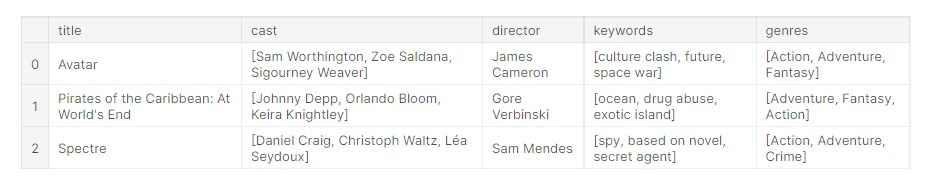
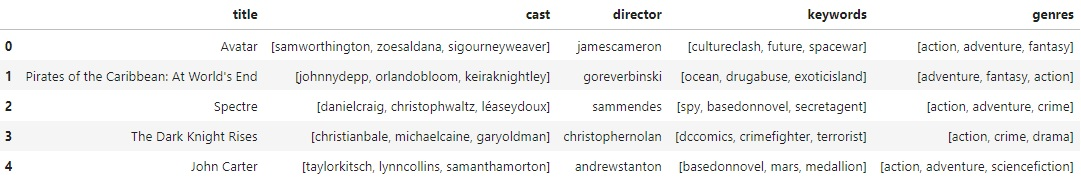
readme and image update

diff --git a/Cluster analysis (unclassified data)/README.md b/Cluster analysis (unclassified data)/README.md
@@ -236,117 +236,13 @@ get_recommendations('The Godfather')
 
 ![get_recommendations('The Godfather')](/images/movie/movie9.jpg)
 
-Our system did a good job of locating movies with comparable plot descriptions, but the quality of the recommendations isn't excellent. "The Dark Knight Rises" returns all Batman films, but fans of that film are more likely to love subsequent Christopher Nolan films. This is something that the current system is incapable of capturing.
+Our system was able to locate similar movies with plot descriptions, but the quality of the recommendations wasn't great. Better metadata can help improve the quality of our recommender system. That is exactly what I did in this part. The data used to generate a recommender for movie viewers was the top three actors, the director, relative genres and narrative keywords.
 
-* Credits, Genres and Keywords Based Recommender
+I needed to extract the three most important actors, directors, and keywords related to the movie from the cast, crew, and keyword features. Our data is currently stored in a format that I need to change into a more secure and usable structure. After that, I developed functions to help me extract the essential data from each feature.
 
-Using better metadata would improve the quality of our recommender. That is precisely what I did in this part. The following metadata was used to develop a recommender: the top three actors, the director, relevant genres, and movie narrative keywords.
+The names and keyword instances were then converted to lowercase and any spaces between them removed. This is done to ensure that the Johnnys of "Johnny Depp" and "Johnny Galecki" are not confused by our vectorizer. I generated the metadata soup, which contained all of the metadata I wanted to provide to the vectorizer (namely, the names of actors, director, and keywords).
 
-I needed to extract the three most essential actors, the director, and the keywords connected with that movie from the cast, crew, and keywords features. Our data is currently stored in the form of "stringified" lists, which I needed to change into a secure and useable structure.
-
-```
-# Parse the stringified features into their corresponding python objects
-from ast import literal_eval
-
-features = ['cast', 'crew', 'keywords', 'genres']
-for feature in features:
-    df2[feature] = df2[feature].apply(literal_eval)
-```
-
-Following that, I developed functions to assist me in extracting the essential data from each feature.
-
-```
-# Get the director's name from the crew feature. If director is not listed, return NaN
-def get_director(x):
-    for i in x:
-        if i['job'] == 'Director':
-            return i['name']
-    return np.nan
-```
-
-```
-# Returns the list top 3 elements or entire list; whichever is more.
-def get_list(x):
-    if isinstance(x, list):
-        names = [i['name'] for i in x]
-        #Check if more than 3 elements exist. If yes, return only first three. If no, return entire list.
-        if len(names) > 3:
-            names = names[:3]
-        return names
-
-    #Return empty list in case of missing/malformed data
-    return []
-```
-
-```
-# Define new director, cast, genres and keywords features that are in a suitable form.
-df2['director'] = df2['crew'].apply(get_director)
-
-features = ['cast', 'keywords', 'genres']
-for feature in features:
-    df2[feature] = df2[feature].apply(get_list)
-```
-
-```
-# Print the new features of the first 3 films
-df2[['title', 'cast', 'director', 'keywords', 'genres']].head(3)
-```
-
-The names and keyword instances was then converted to lowercase and all spaces between them removed. This was done to ensure that the Johnnys of "Johnny Depp" and "Johnny Galecki" are not confused by our vectorizer.
-
-```
-# Function to convert all strings to lower case and strip names of spaces
-def clean_data(x):
-    if isinstance(x, list):
-        return [str.lower(i.replace(" ", "")) for i in x]
-    else:
-        #Check if director exists. If not, return empty string
-        if isinstance(x, str):
-            return str.lower(x.replace(" ", ""))
-        else:
-            return ''
-```
-
-```
-# Apply clean_data function to your features.
-features = ['cast', 'keywords', 'director', 'genres']
-
-for feature in features:
-    df2[feature] = df2[feature].apply(clean_data)
-```
-
-I then generated the "metadata soup," which was a string containing all of the metadata I wanted to provide to the vectorizer (namely actors, director and keywords).
-
-```
-def create_soup(x):
-    return ' '.join(x['keywords']) + ' ' + ' '.join(x['cast']) + ' ' + x['director'] + ' ' + ' '.join(x['genres'])
-df2['soup'] = df2.apply(create_soup, axis=1)
-```
-
-The following steps were identical to those taken with the plot description-based recommender. I utilized CountVectorizer() instead of TF-IDF, which was a significant difference. This was because I didn't want to undervalue an actor's or director's presence simply because he or she has been in or directed in a larger number of films. 
-
-```
-# Import CountVectorizer and create the count matrix
-from sklearn.feature_extraction.text import CountVectorizer
-
-count = CountVectorizer(stop_words='english')
-count_matrix = count.fit_transform(df2['soup'])
-```
-
-```
-# Compute the Cosine Similarity matrix based on the count_matrix
-from sklearn.metrics.pairwise import cosine_similarity
-
-cosine_sim2 = cosine_similarity(count_matrix, count_matrix)
-```
-
-```
-# Reset index of our main DataFrame and construct reverse mapping as before
-df2 = df2.reset_index()
-indices = pd.Series(df2.index, index=df2['title'])
-```
-
-By supplying the new cosine sim2 matrix as the second input, I could then reuse my get recommendations() code:
+The steps for creating this improved recommender were identical to those using the plot description-based recommender. I used CountVectorizer() instead of TF-IDF, which was a significant difference. This is because I didn't want to underestimate the existence of the actor or director just because the actor or director appeared or directed more movies.By providing a new cosine sim2 matrix as a second input, I was able to reuse my get_recommendations() function:
 
 ```
 get_recommendations('The Dark Knight Rises', cosine_sim2)
